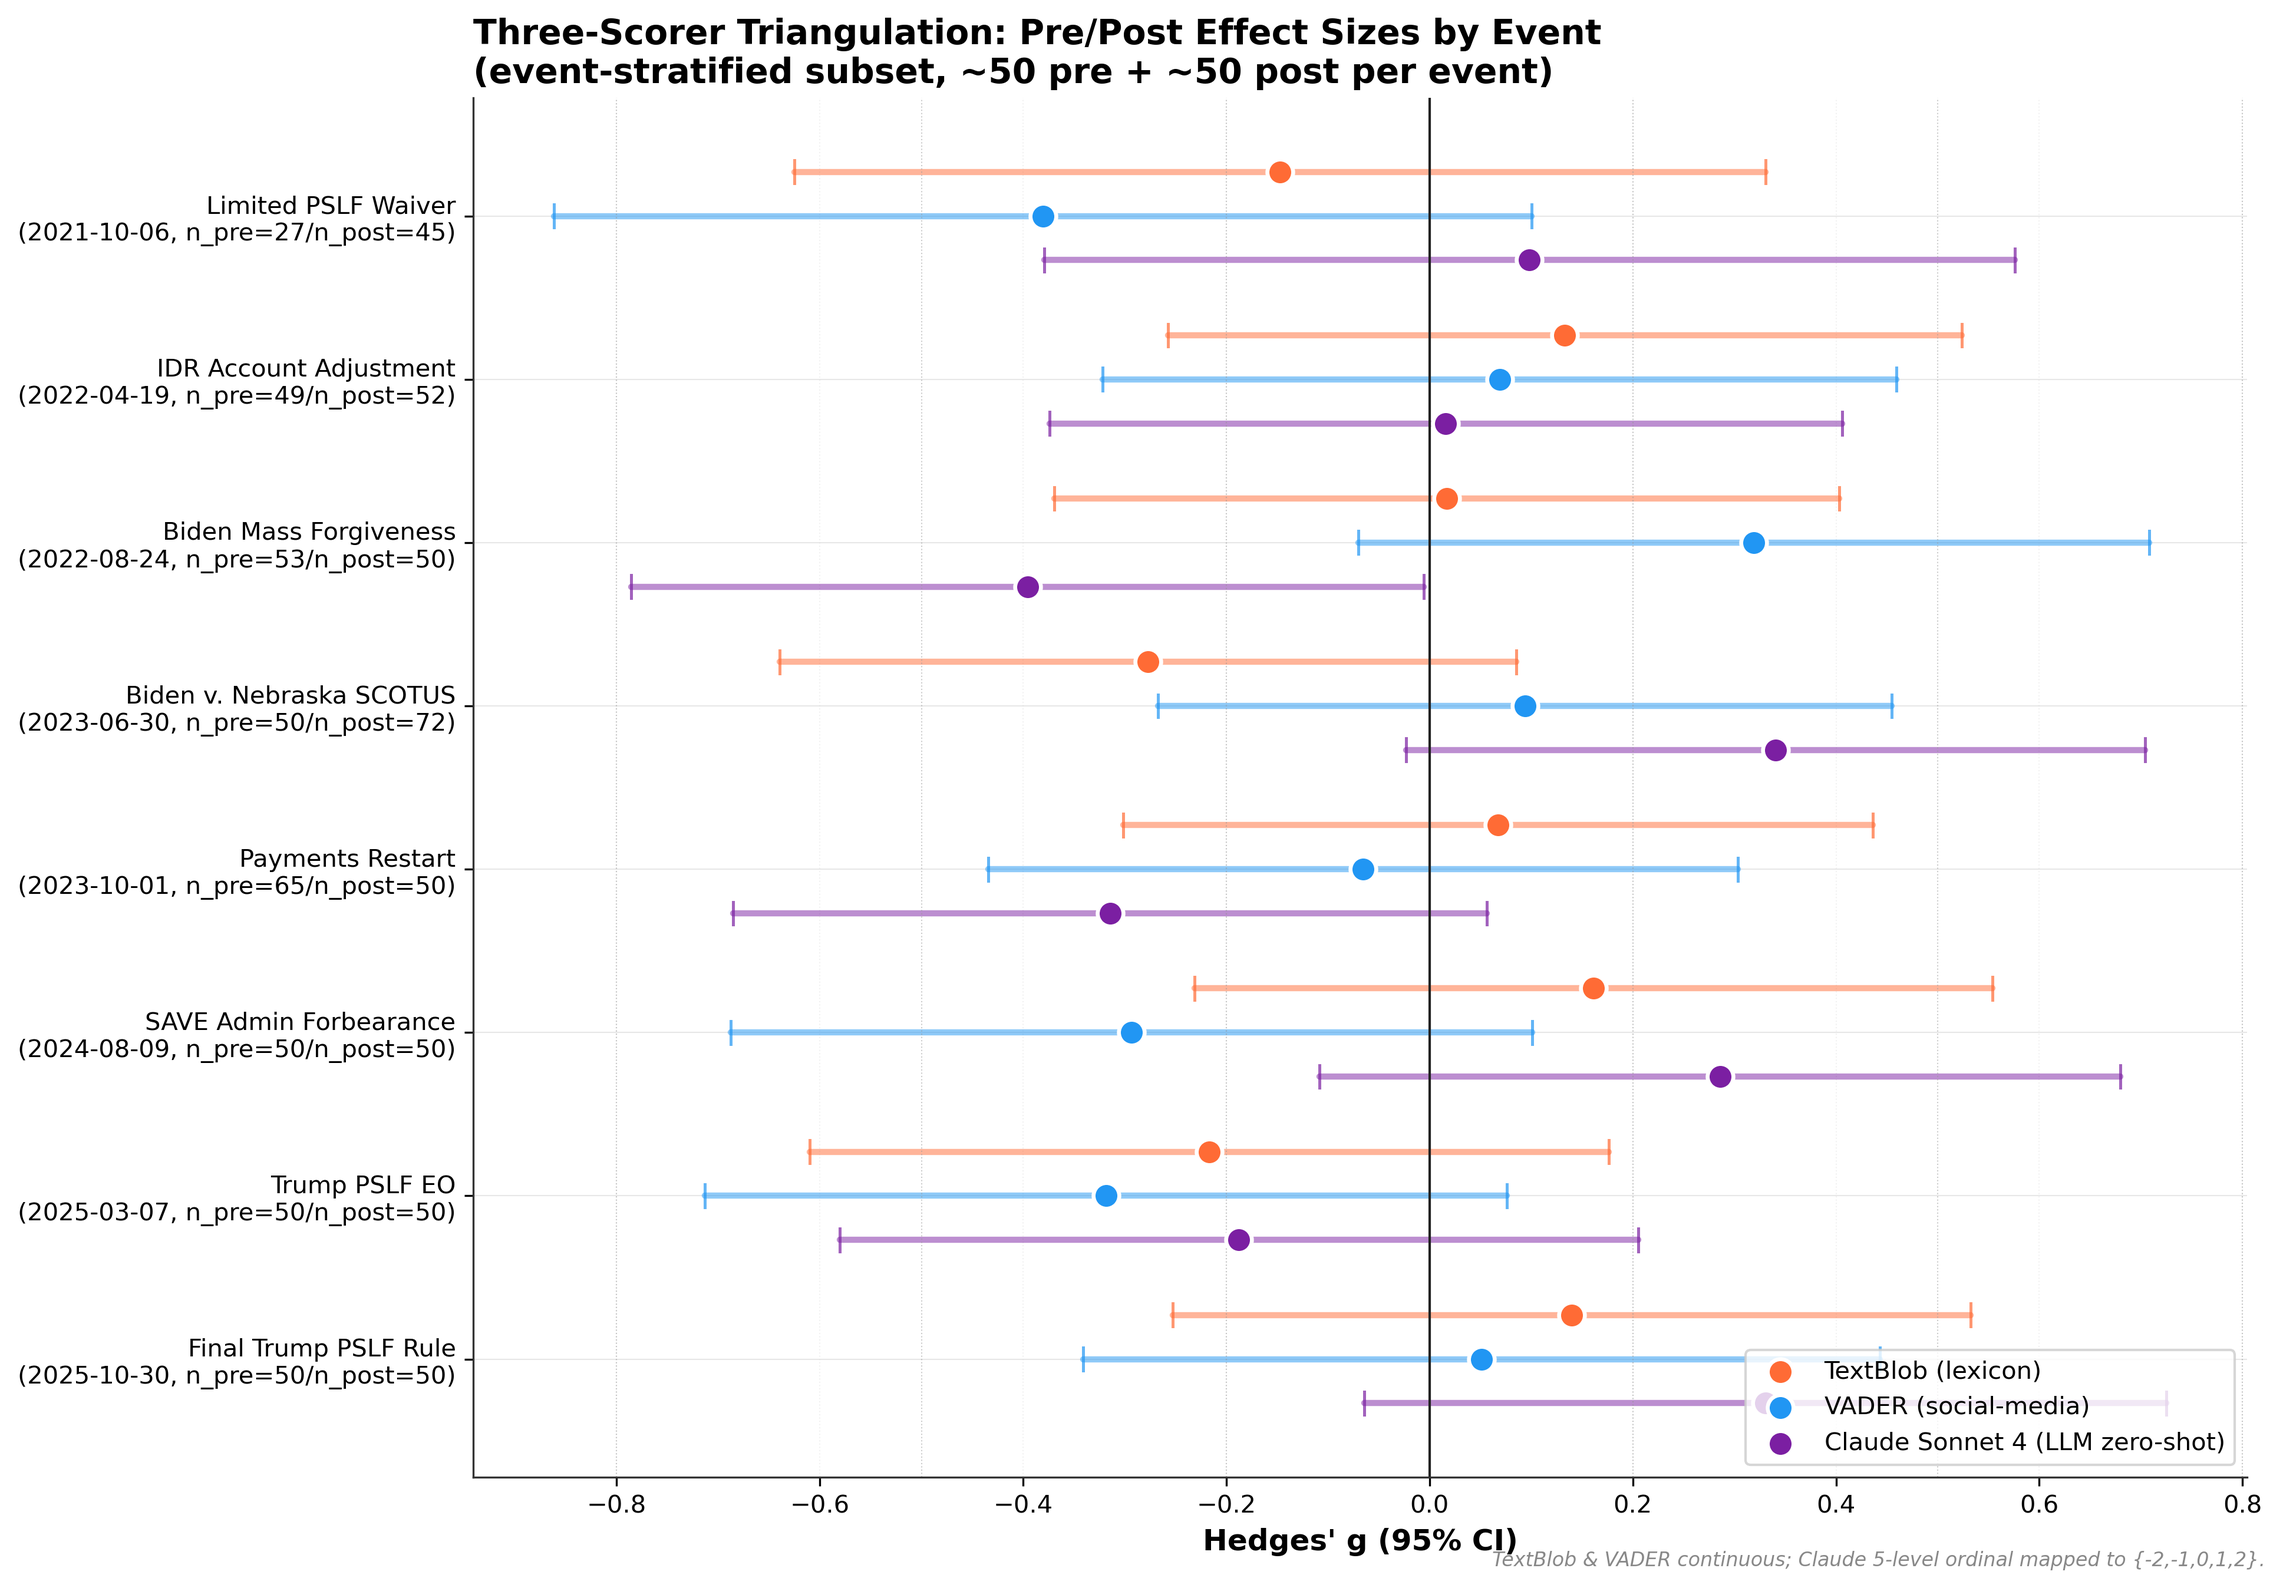
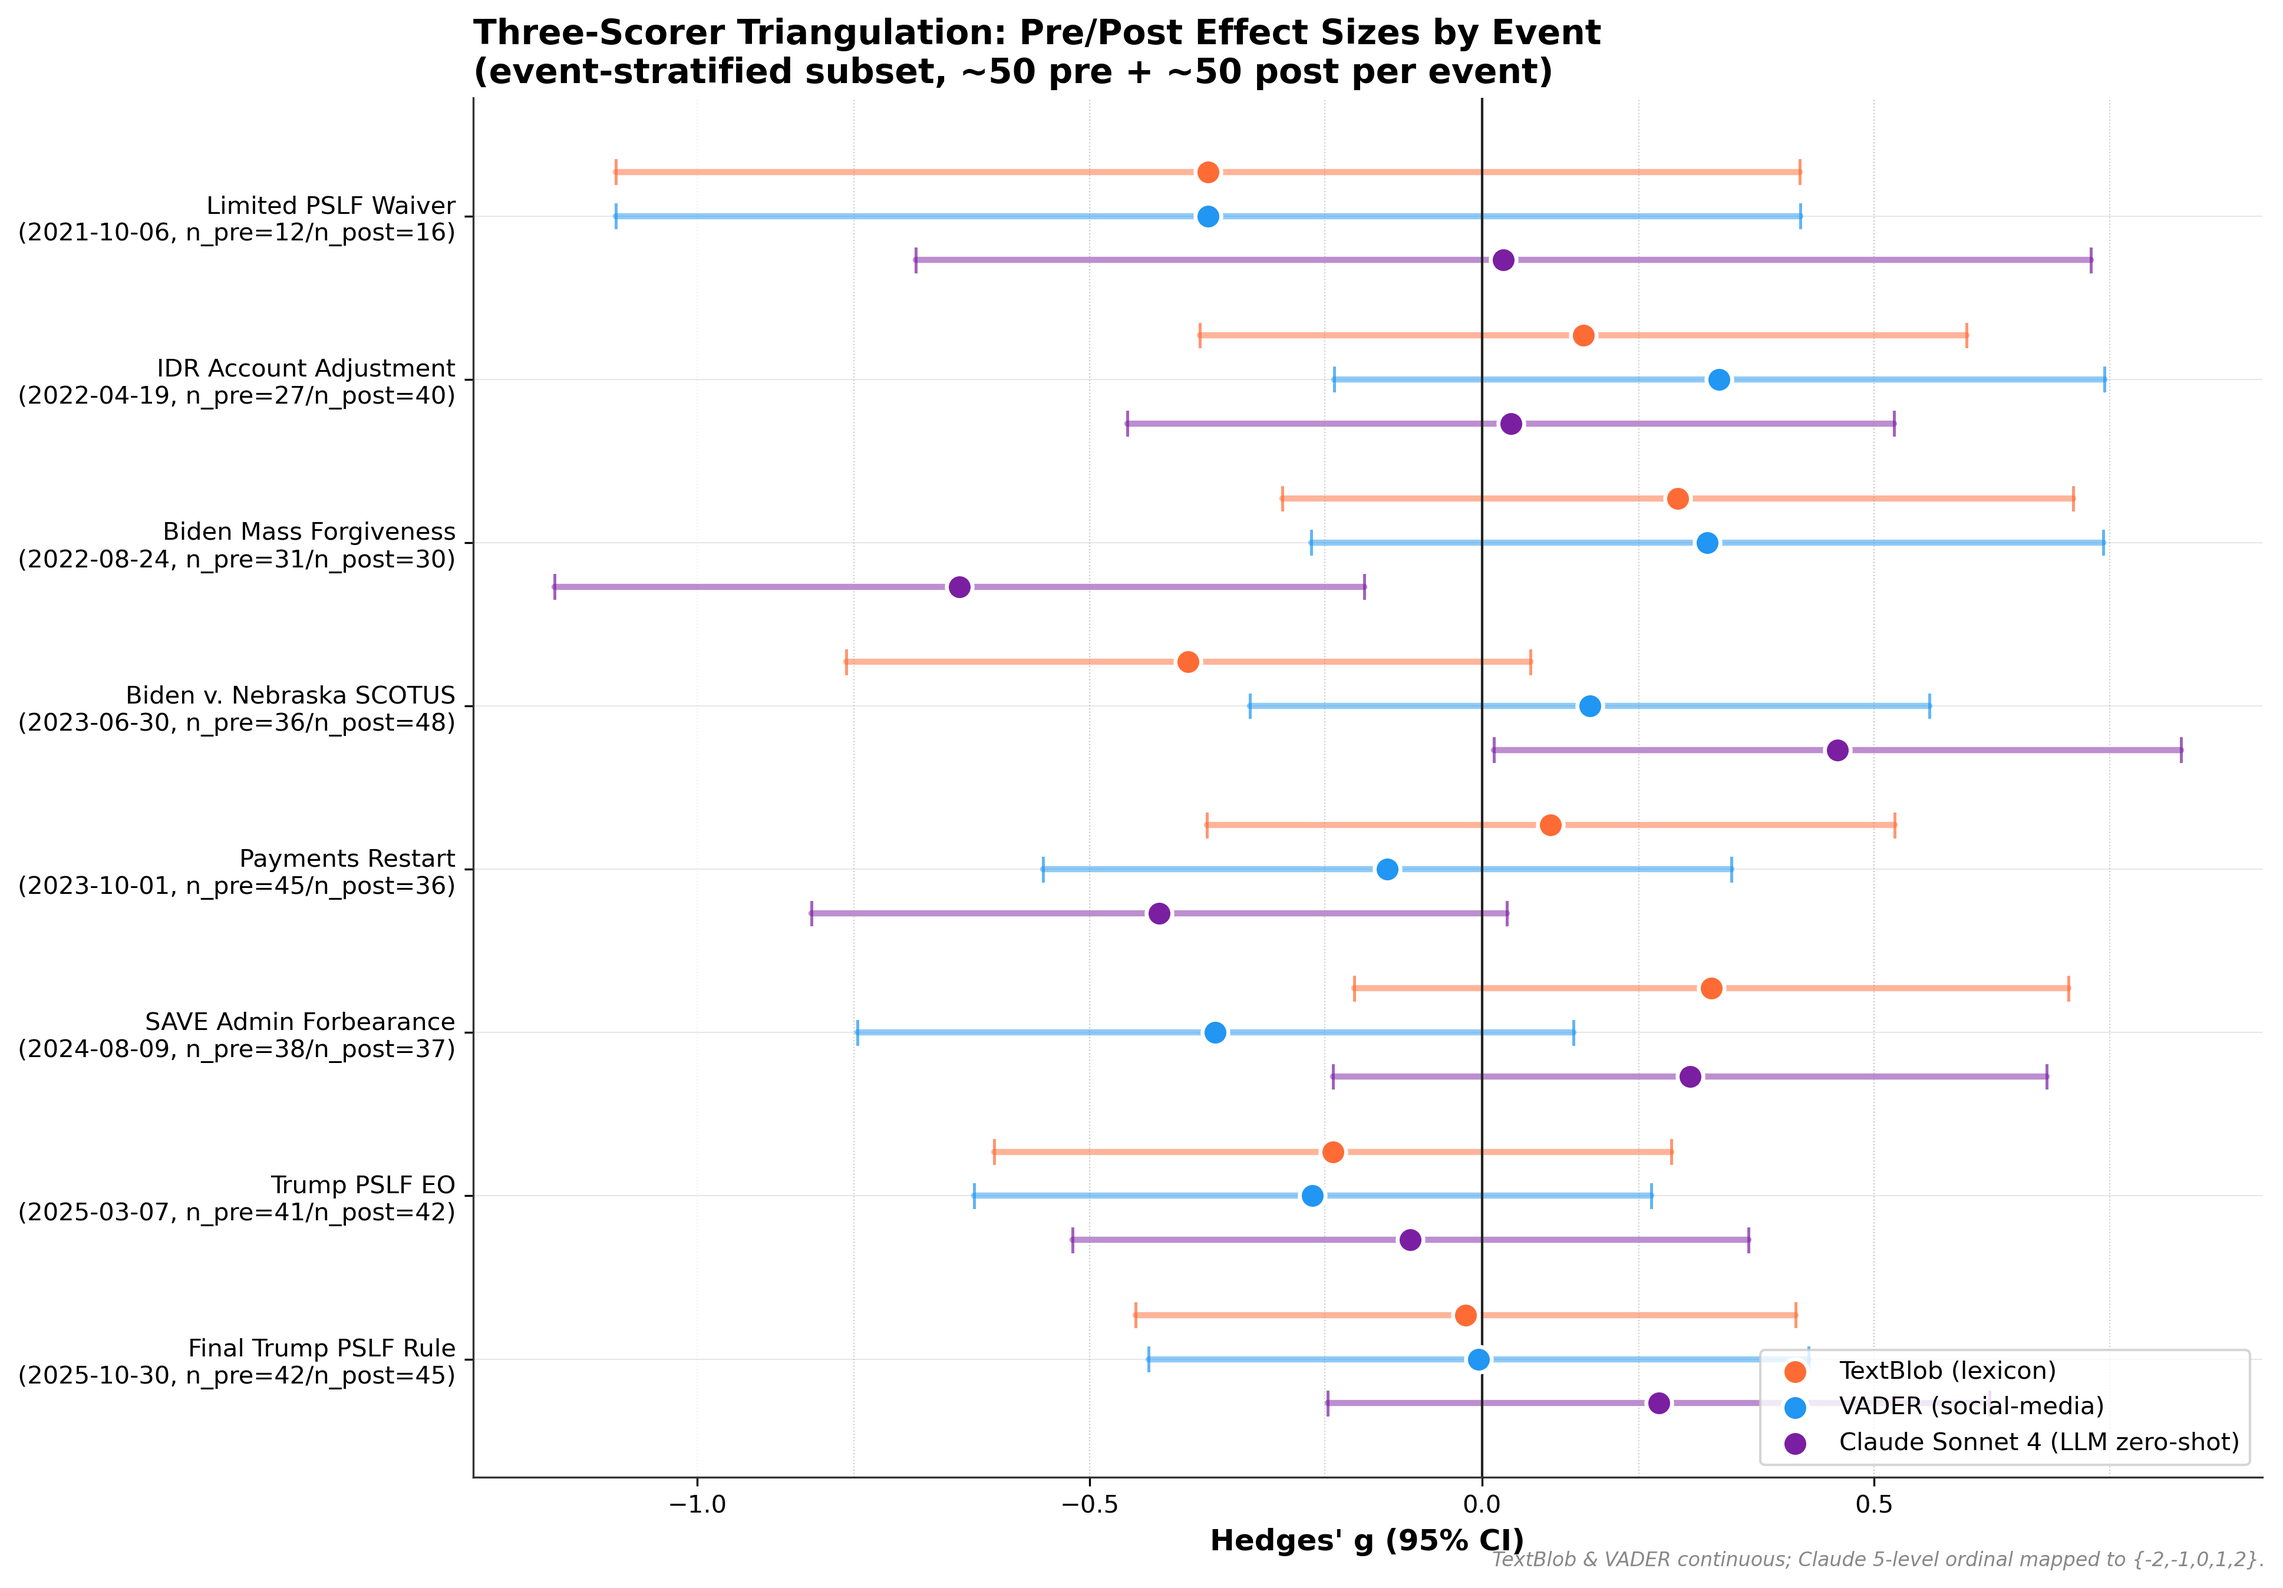
Address Copilot PR review: 7 fixes (artifacts, docstrings, type annotations)
Real bugs:
- confound_audit.py: force UTF-8 stdout via TextIOWrapper at script start so
  '×' multiplication signs survive shell redirect on Windows (cp1252 was
  mangling them to '�' in the captured artifact). Regenerated
  confound_audit_results.txt — multiplication signs now render correctly.
- gen_volume_artifact_figure.py: replace hardcoded "It explodes 84×"
  subtitle with a multiplier computed dynamically from the script's own
  ratio series ("It grows ~Nx from <first_year> to <last_year>"). Tracks
  the data when CFPB/Reddit counts update.

Docstrings / help text / type annotations:
- sentiment_zeroshot.py: --stratify-events help no longer claims --sample
  controls posts per event (it doesn't; --per-event does). Added explicit
  "NOTE: --sample is ignored in this mode" to prevent users sampling the
  wrong number.
- final_summary.py: "Trump PSLF Exec Order" → "Trump PSLF Executive Order"
  to match gen_legislative_timeline.py's canonical 8-event list. Avoids
  string-mismatch joins between the summary and the timeline artifact.
- pslf_search_terms.py: filter_pslf_relevant docstring no longer claims
  "Vectorized" — it's per-row .apply(_check) for the anchor-window pass.
  Added an implementation-note paragraph explaining the design and the
  acceptable corpus-size envelope.
- sentiment_triangulation.py: write_artifacts no longer hardcodes "union
  of 3 zero-shot subsamples". Now reports the actual subsample list from
[…]

diff --git a/scripts/sentiment_triangulation.py b/scripts/sentiment_triangulation.py
@@ -282,8 +282,18 @@ def compute_alpha(merged):
         "vader": merged["vader_compound"].apply(vader_to_5).astype(float).value_counts().sort_index().to_dict(),
     }
 
+    # Subsample provenance: which zeroshot CSVs contributed (load_zeroshot tags
+    # rows with a 'subsample' column). Reported in the artifact so the count
+    # of subsamples isn't hardcoded.
+    if "subsample" in merged.columns:
+        subsamples = sorted(merged["subsample"].dropna().unique().tolist())
+    else:
+        subsamples = []
+
     return {
         "n_units": n_units,
+        "n_complete": int(len(sub)),  # rows with all 3 scorers (non-NaN)
+        "subsamples": subsamples,
         "alpha_ordinal": alpha_ordinal,
         "alpha_nominal": alpha_nominal,
         "alpha_interval": alpha_interval,
@@ -419,7 +429,16 @@ def write_artifacts(alpha_results, per_event):
         # ---- Krippendorff's alpha ----
         f.write("INTER-RATER RELIABILITY (Krippendorff's alpha)\n")
         f.write("-" * 80 + "\n")
-        f.write(f"Sample: union of 3 zero-shot subsamples, n={alpha_results['n_units']:,} units\n")
+        subs = alpha_results.get("subsamples", [])
+        n_sub = len(subs) if subs else 0
+        n_complete = alpha_results.get("n_complete", alpha_results["n_units"])
+        if subs:
+            f.write(f"Sample: union of {n_sub} zero-shot subsamples "
+                    f"({', '.join(subs)})\n")
+        else:
+            f.write("Sample: union of zero-shot subsamples\n")
+        f.write(f"  n_units (total rows after dedup):          {alpha_results['n_units']:,}\n")
+        f.write(f"  n_complete (all 3 scorers non-missing):    {n_complete:,}\n")
         f.write("Encoding: TextBlob & VADER discretized to 5-level ordinal {-2,-1,0,1,2};\n")
         f.write("          Claude pslf_sentiment mapped to same scale.\n")
         f.write(f"  TextBlob thresholds: < -0.4 / -0.1 / +0.1 / +0.4\n")

diff --git a/scripts/sentiment_zeroshot.py b/scripts/sentiment_zeroshot.py
@@ -172,10 +172,11 @@ def main():
     parser.add_argument("--seed", type=int, default=42, help="Random seed for sampling")
     parser.add_argument("--stratify-events", action="store_true",
                         help="Sample N posts per event (pre + post window) instead of overall random sample. "
-                             "Use with --sample to control posts per event (default 100). "
-                             "Yields per-event triangulation power.")
+                             "Combine with --per-event to control posts per event (default 100). "
+                             "Yields per-event triangulation power. NOTE: --sample is ignored in this mode.")
     parser.add_argument("--per-event", type=int, default=100,
-                        help="When --stratify-events is set, posts per event (pre+post combined)")
+                        help="When --stratify-events is set, posts per event (pre+post combined; "
+                             "split as N/2 pre, N/2 post)")
     parser.add_argument("--event-windows-full", action="store_true",
                         help="Score ALL posts in the 8 event windows (pre+post) at full corpus depth, "
                              "no subsampling. Path C in the round-5 triangulation strategy.")

diff --git a/scripts/gen_volume_artifact_figure.py b/scripts/gen_volume_artifact_figure.py
@@ -62,6 +62,17 @@ def main():
     reddit_norm = [reddit_yearly.get(y, 0) for y in common_years]
     ratio = [r / c if c > 0 else 0 for r, c in zip(reddit_norm, cfpb_norm)]
 
+    # Dynamic R/C-ratio multiplier from first vs latest non-zero year
+    # (was hardcoded "84×"; computed here so the annotation tracks the data).
+    nz = [(y, r) for y, r in zip(common_years, ratio) if r > 0]
+    if len(nz) >= 2:
+        first_y, first_r = nz[0]
+        last_y, last_r = nz[-1]
+        ratio_mult = last_r / first_r if first_r > 0 else float("nan")
+        mult_text = f"It grows ~{ratio_mult:.0f}× from {first_y} to {last_y}"
+    else:
+        mult_text = "It grows substantially"
+
     # ---- Figure ----
     fig, axes = plt.subplots(1, 3, figsize=(22, 7))
     fig.suptitle(
@@ -70,7 +81,7 @@ def main():
     )
     fig.text(0.5, 0.945,
              "If volume increase were entirely real, Reddit/CFPB ratio (right panel) would be flat. "
-             "It explodes 84× — confirming API-cap artifact.",
+             f"{mult_text} — confirming API-cap artifact.",
              ha="center", fontsize=11, style="italic", color="#555555")
 
     # Panel 1: Side-by-side absolute counts

diff --git a/scripts/collect_allnurses.py b/scripts/collect_allnurses.py
@@ -99,8 +99,13 @@ def make_post_id(source: str, thread_id: str, post_number: int) -> str:
 # ---------------------------------------------------------------------------
 # Allnurses Search via Playwright
 # ---------------------------------------------------------------------------
-def search_allnurses(search_terms: list[str], max_pages: int = 3) -> list[dict]:
-    """Search allnurses.com using Playwright to bypass Cloudflare."""
+def search_allnurses(search_terms: list[str], max_pages: int = 3) -> tuple[list[dict], list[dict]]:
+    """Search allnurses.com using Playwright to bypass Cloudflare.
+
+    Returns (threads, cookies) — cookies are harvested from the Playwright
+    session so a subsequent requests-based scrape can stay past Cloudflare.
+    Returns ([], []) if Playwright is not installed.
+    """
     if not HAS_PLAYWRIGHT:
         print("  [ERROR] Playwright required")
         return [], []

diff --git a/scripts/pslf_search_terms.py b/scripts/pslf_search_terms.py
@@ -128,9 +128,15 @@ _GENERIC_FORGIVENESS = (
 
 
 def filter_pslf_relevant(series) -> "pd.Series":
-    """Vectorized version of has_pslf_relevance for pandas Series.
+    """Apply has_pslf_relevance over a pandas Series, returning a boolean mask.
 
-    Returns boolean mask. Use as drop-in replacement for:
+    Implementation note: this is a per-row apply (NOT vectorized) because the
+    anchor-window check is order-sensitive within each text. Acceptable for
+    the project's corpus sizes (<50K rows); a fully vectorized rewrite would
+    use str.contains for the strict path and only fall back to apply for the
+    generic-with-anchor path.
+
+    Use as drop-in replacement for:
         df["text"].str.lower().str.contains(PSLF_STRICT_REGEX, na=False)
     """
     import re as _re

diff --git a/scripts/confound_audit.py b/scripts/confound_audit.py
@@ -17,8 +17,13 @@ Output: confound_audit_results.txt
 """
 from __future__ import annotations
 
+import io
 import os
 import sys
+
+# Force UTF-8 stdout so '×' and other non-ASCII chars survive redirect on Windows
+# (otherwise cp1252 mangles them into '�' in the captured artifact file).
+sys.stdout = io.TextIOWrapper(sys.stdout.buffer, encoding="utf-8")
 
 import numpy as np
 import pandas as pd

diff --git a/scripts/final_summary.py b/scripts/final_summary.py
@@ -142,7 +142,7 @@ EVENTS = [
     ("Biden v. Nebraska SCOTUS", "2023-06-30", 90),
     ("Payments Restart", "2023-10-01", 90),
     ("SAVE Admin Forbearance", "2024-08-09", 90),
-    ("Trump PSLF Exec Order", "2025-03-07", 60),
+    ("Trump PSLF Executive Order", "2025-03-07", 60),
     ("Final Trump PSLF Rule", "2025-10-30", 60),
 ]
 
